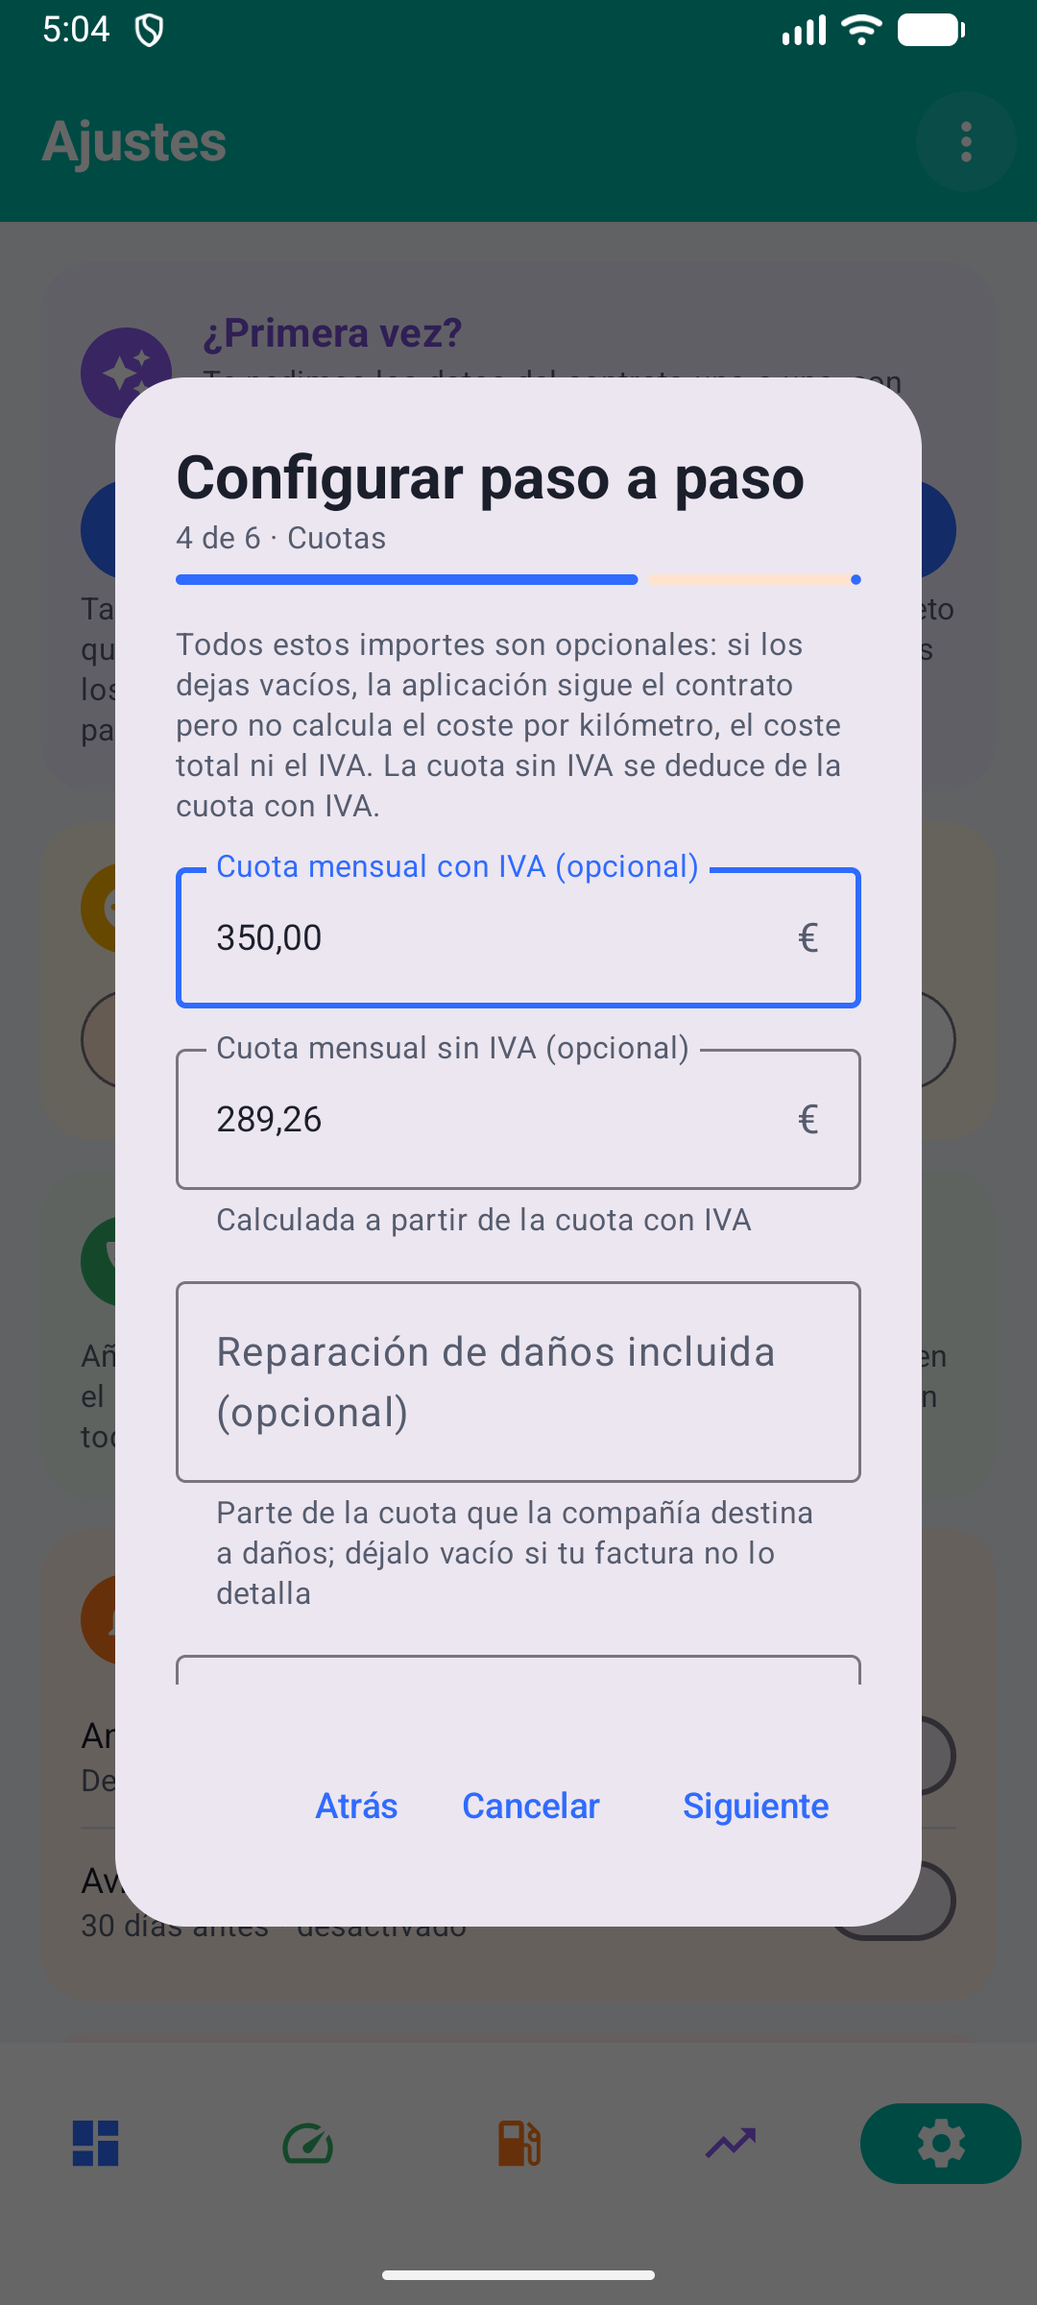
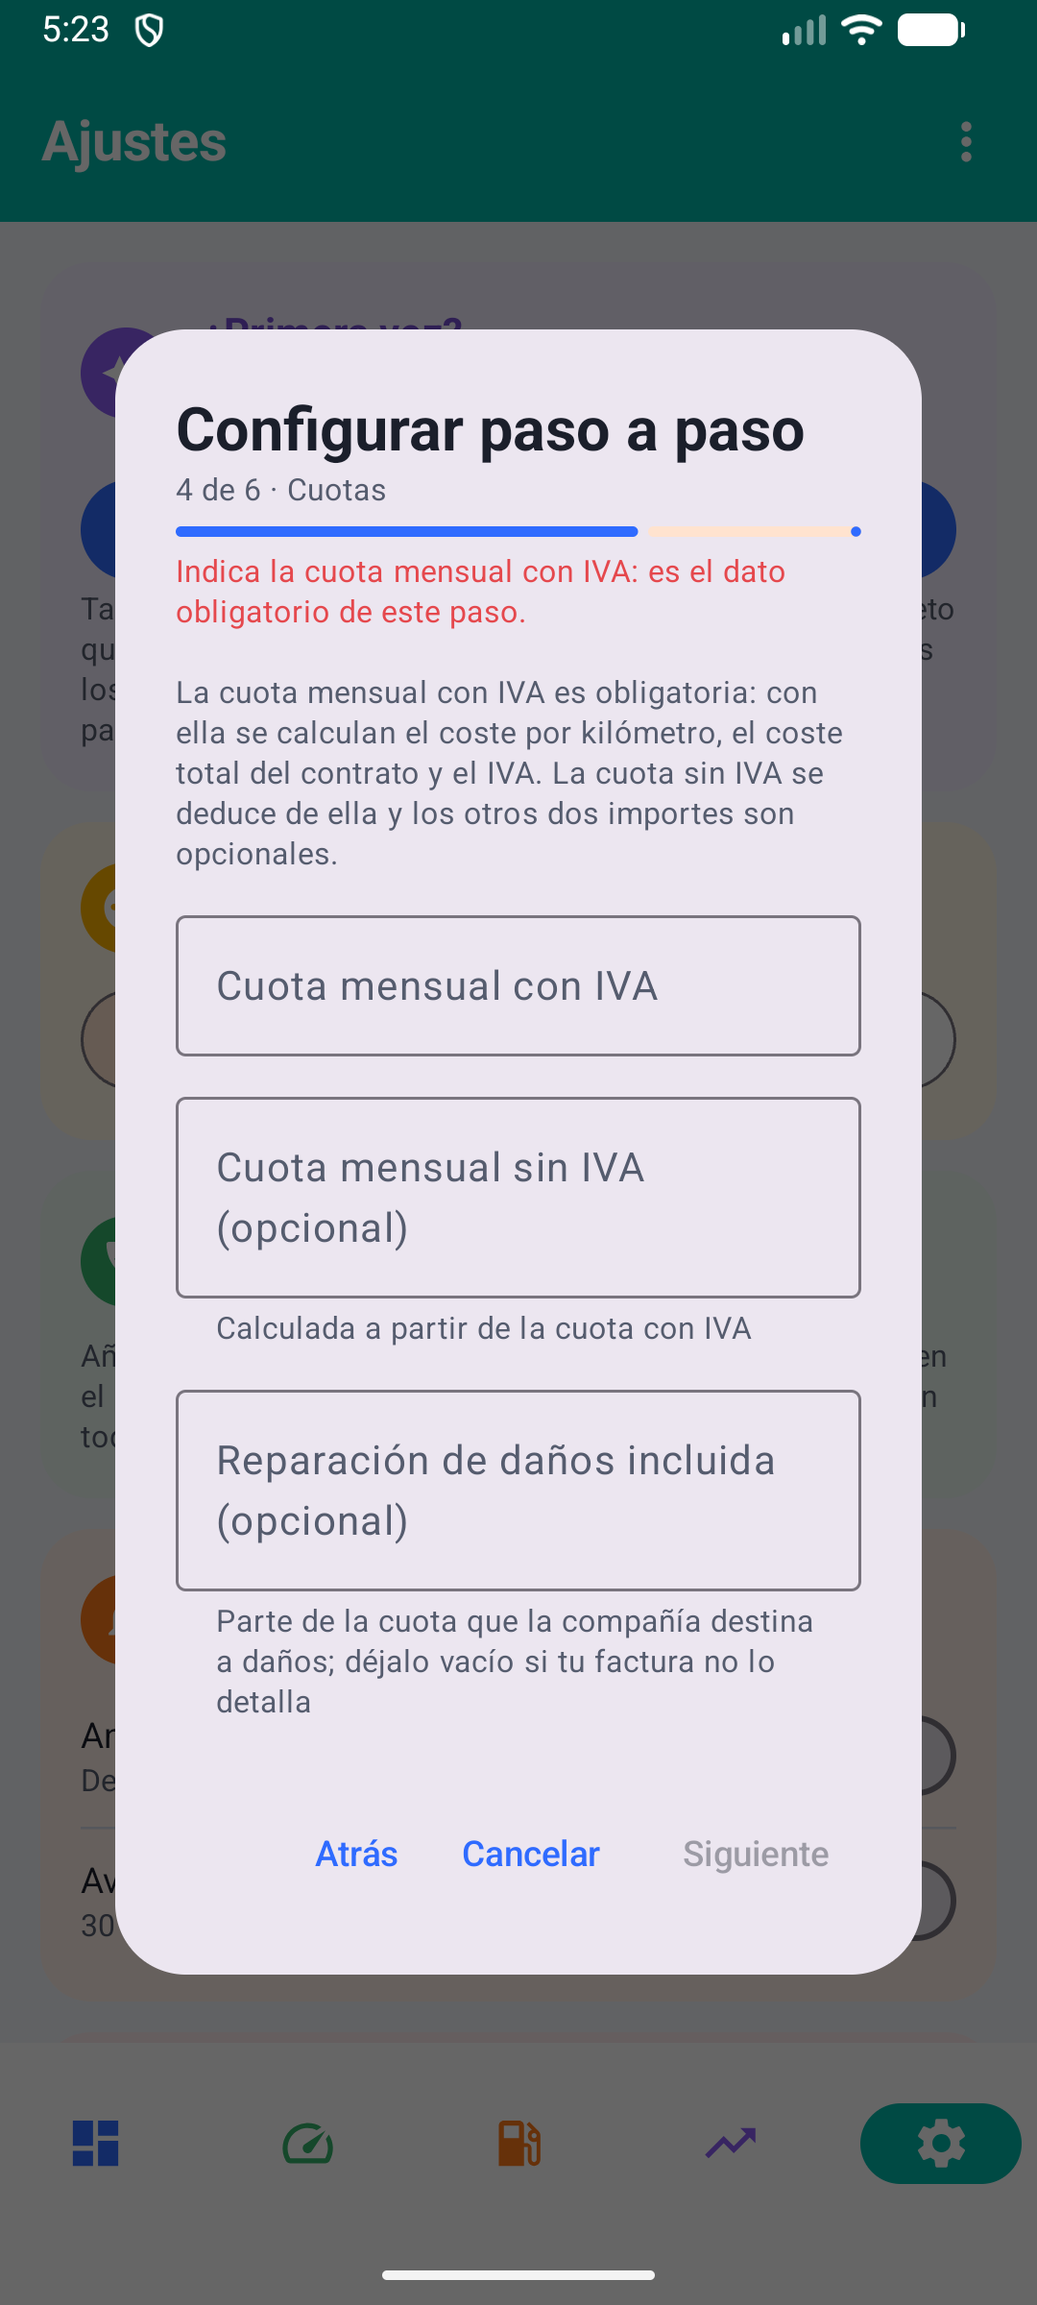
La cuota mensual con IVA vuelve a ser obligatoria (v1.3.1)
- Obligatorios: inicio, plazo (o fecha de fin), km/año y cuota con IVA. Siguen siendo
  opcionales la cuota sin IVA (se deduce), reparación de daños, depósito y las tarifas
  por kilómetro.
- El aviso de lo que falta en el asistente pasa a la cabecera fija del diálogo: antes
  quedaba fuera de la zona visible y no se veía por qué 'Siguiente' estaba deshabilitado.
- El formulario de Ajustes dice qué campo obligatorio falta en lugar del aviso genérico.
- Manual y web actualizados. Tests: 34 unitarios + 8 instrumentados.

diff --git a/app/src/main/java/com/manursan/seguimientokm/ui/AsistenteContrato.kt b/app/src/main/java/com/manursan/seguimientokm/ui/AsistenteContrato.kt
@@ -101,8 +101,8 @@ fun AsistenteContratoDialog(
             inicio = inicio, fin = fin,
             meses = mesesInt!!.also { require(it > 0) },
             kmAnio = Fmt.parseInt(kmAnio)!!.also { require(it > 0) },
-            cuotaMensual = d(cuota) ?: 0.0,
-            cuotaSinIva = d(cuotaSinIva) ?: ((d(cuota) ?: 0.0) / (1 + (ivaFrac ?: 0.0))),
+            cuotaMensual = d(cuota)!!.also { require(it > 0) },
+            cuotaSinIva = d(cuotaSinIva) ?: (d(cuota)!! / (1 + (ivaFrac ?: 0.0))),
             repDanos = d(repDanos) ?: 0.0,
             deposito = d(deposito) ?: 0.0,
             eurKmNoRecorrido = d(eurNoRec) ?: 0.0,
@@ -134,7 +134,7 @@ fun AsistenteContratoDialog(
         3 -> {
             val sinIva = d(cuotaSinIva) ?: d(cuota)?.div(1 + (ivaFrac ?: 0.0))
             when {
-                cuota.isNotBlank() && d(cuota) == null -> "La cuota mensual no es un número válido."
+                d(cuota).let { it == null || it <= 0 } -> "Indica la cuota mensual con IVA: es el dato obligatorio de este paso."
                 d(cuotaSinIva) != null && d(cuotaSinIva)!! > d(cuota)!! -> "La cuota sin IVA no puede superar la cuota con IVA."
                 ivaFrac != null && d(cuotaSinIva) != null && d(cuotaSinIva)!! > 0 && kotlin.math.abs(d(cuotaSinIva)!! * (1 + ivaFrac) - d(cuota)!!) > 1.0 ->
                     "Cuota sin IVA × (1 + IVA) = ${Fmt.dec(d(cuotaSinIva)!! * (1 + ivaFrac), 2)} €, no cuadra con la cuota con IVA."
@@ -172,6 +172,10 @@ fun AsistenteContratoDialog(
                 Text("${paso + 1} de ${titulos.size} · ${titulos[paso]}", style = MaterialTheme.typography.bodySmall, color = MaterialTheme.colorScheme.onSurfaceVariant)
                 Spacer(Modifier.height(6.dp))
                 LinearProgressIndicator(progress = { (paso + 1f) / titulos.size }, modifier = Modifier.fillMaxWidth())
+                if (pendiente != null) {
+                    Spacer(Modifier.height(6.dp))
+                    Text(pendiente, style = MaterialTheme.typography.bodySmall, color = MaterialTheme.colorScheme.error)
+                }
             }
         },
         text = {
@@ -204,8 +208,8 @@ fun AsistenteContratoDialog(
                         if (total != null) Resumen("Kilómetros contratados: ${Fmt.km(total)}")
                     }
                     3 -> {
-                        Ayuda("Todos estos importes son opcionales: si los dejas vacíos, la aplicación sigue el contrato pero no calcula el coste por kilómetro, el coste total ni el IVA. La cuota sin IVA se deduce de la cuota con IVA.")
-                        NumberField("Cuota mensual con IVA (opcional)", cuota, {
+                        Ayuda("La cuota mensual con IVA es obligatoria: con ella se calculan el coste por kilómetro, el coste total del contrato y el IVA. La cuota sin IVA se deduce de ella y los otros dos importes son opcionales.")
+                        NumberField("Cuota mensual con IVA", cuota, {
                             cuota = it
                             val c = d(it); val v = ivaFrac
                             if (c != null && v != null && v >= 0) cuotaSinIva = Fmt.dec(c / (1 + v), 2)
@@ -267,15 +271,11 @@ fun AsistenteContratoDialog(
                         Recomendacion()
                         if (pendiente == null && candidato != null) {
                             Resumen(
-                                "Todo listo: ${Fmt.km(candidato.kmContratados)} en ${candidato.meses} meses" +
-                                    (if (candidato.tieneCostes) ", cuota ${Fmt.eur(candidato.cuotaMensual)}/mes" else ", sin cuota (no se calcularán costes)") +
-                                    ". Pulsa Guardar para crear el contrato.",
+                                "Todo listo: ${Fmt.km(candidato.kmContratados)} en ${candidato.meses} meses, " +
+                                    "cuota ${Fmt.eur(candidato.cuotaMensual)}/mes. Pulsa Guardar para crear el contrato.",
                             )
                         }
                     }
-                }
-                if (pendiente != null) {
-                    Text(pendiente, style = MaterialTheme.typography.bodySmall, color = MaterialTheme.colorScheme.error)
                 }
             }
         },

diff --git a/docs/index.html b/docs/index.html
@@ -137,7 +137,7 @@
   <div class="nota" style="margin-top:16px">Si Play Protect muestra un aviso, elige <em>Instalar de todos modos</em>. La app no requiere cuenta ni contiene anuncios.</div>
   <div class="nota" style="margin-top:12px">Seguimiento Renting es una aplicación independiente de uso privado y <strong>no representa a ninguna entidad pública</strong> (como el BOE o la DGT). Solo usa Internet para consultar datos públicos abiertos de combustible (<a href="https://sedeaplicaciones.minetur.gob.es/ServiciosRESTCarburantes/PreciosCarburantes/help" target="_blank" rel="noopener">servicio oficial de precios de carburantes</a>) y notificaciones públicas en el <a href="https://www.boe.es/notificaciones/" target="_blank" rel="noopener">Tablón Edictal Único del BOE</a>.</div>
   <div class="req">
-    <span>Android 8.0+</span><span>Versión 1.3.0</span><span>Sin anuncios</span><span>Datos solo en tu dispositivo</span>
+    <span>Android 8.0+</span><span>Versión 1.3.1</span><span>Sin anuncios</span><span>Datos solo en tu dispositivo</span>
   </div>
 </section>
 
@@ -147,7 +147,7 @@
   <div class="dl">
     <div class="card">
       <h3><i style="background:var(--amarillo);color:#1F2937">📱</i>Aplicación Android</h3>
-      <p>Fichero de instalación <code>SeguimientoRenting.apk</code> · versión 1.3.0 · 22 MB</p>
+      <p>Fichero de instalación <code>SeguimientoRenting.apk</code> · versión 1.3.1 · 22 MB</p>
       <a class="btn apk" href="https://github.com/manursan2026/seguimiento-renting/releases/latest/download/SeguimientoRenting.apk" download>Descargar APK</a>
     </div>
     <div class="card">
@@ -162,7 +162,7 @@
 </main>
 
 <footer>
-  <div class="wrap">Seguimiento Renting · versión 1.3.0 · Página actualizada el 24/09/2026.<br>Las capturas mostradas utilizan datos ficticios de ejemplo.<br>Esta aplicación no representa a ninguna entidad pública. Fuentes oficiales: <a href="https://www.boe.es/notificaciones/" target="_blank" rel="noopener">BOE (TEU)</a> · <a href="https://sede.dgt.gob.es/es/multas/" target="_blank" rel="noopener">Sede DGT</a> · <a href="https://sedeaplicaciones.minetur.gob.es/ServiciosRESTCarburantes/PreciosCarburantes/help" target="_blank" rel="noopener">Precios de carburantes (Ministerio)</a><br>Código fuente en <a href="https://github.com/manursan2026/seguimiento-renting">GitHub</a> · <a href="https://github.com/manursan2026/seguimiento-renting/releases">Todas las versiones</a> · <a href="politica-de-privacidad.html">Política de Privacidad</a></div>
+  <div class="wrap">Seguimiento Renting · versión 1.3.1 · Página actualizada el 24/09/2026.<br>Las capturas mostradas utilizan datos ficticios de ejemplo.<br>Esta aplicación no representa a ninguna entidad pública. Fuentes oficiales: <a href="https://www.boe.es/notificaciones/" target="_blank" rel="noopener">BOE (TEU)</a> · <a href="https://sede.dgt.gob.es/es/multas/" target="_blank" rel="noopener">Sede DGT</a> · <a href="https://sedeaplicaciones.minetur.gob.es/ServiciosRESTCarburantes/PreciosCarburantes/help" target="_blank" rel="noopener">Precios de carburantes (Ministerio)</a><br>Código fuente en <a href="https://github.com/manursan2026/seguimiento-renting">GitHub</a> · <a href="https://github.com/manursan2026/seguimiento-renting/releases">Todas las versiones</a> · <a href="politica-de-privacidad.html">Política de Privacidad</a></div>
 </footer>
 
 </body>

diff --git a/app/src/main/java/com/manursan/seguimientokm/ui/ParametrosScreen.kt b/app/src/main/java/com/manursan/seguimientokm/ui/ParametrosScreen.kt
@@ -136,9 +136,9 @@ fun ParametrosScreen(vm: MainViewModel, padding: PaddingValues, onMessage: (Stri
             fin = fin,
             meses = Fmt.parseInt(meses)!!.also { require(it > 0) },
             kmAnio = Fmt.parseInt(kmAnio)!!.also { require(it > 0) },
-            // Opcionales: sin cuota no hay costes y sin tarifas no hay liquidación estimada
-            cuotaMensual = d(cuota) ?: 0.0,
-            cuotaSinIva = d(cuotaSinIva) ?: ((d(cuota) ?: 0.0) / (1 + (d(iva)?.div(100) ?: 0.0))),
+            cuotaMensual = d(cuota)!!.also { require(it > 0) },
+            // Opcionales: sin tarifas no hay liquidación estimada; sin los demás, sus cálculos quedan a cero
+            cuotaSinIva = d(cuotaSinIva) ?: (d(cuota)!! / (1 + (d(iva)?.div(100) ?: 0.0))),
             repDanos = d(repDanos) ?: 0.0,
             deposito = d(deposito) ?: 0.0,
             eurKmNoRecorrido = d(eurNoRec) ?: 0.0,
@@ -154,7 +154,13 @@ fun ParametrosScreen(vm: MainViewModel, padding: PaddingValues, onMessage: (Stri
             pctDeduccion = d(deduccion)!! / 100,
         )
     }.getOrNull()
-    val errores = candidato?.errores() ?: listOf("Hay campos vacíos o con valores no numéricos.")
+    // Si ni siquiera se puede construir el contrato, se dice qué campo obligatorio falta
+    val errores = candidato?.errores() ?: buildList {
+        if (Fmt.parseInt(meses).let { it == null || it <= 0 }) add("El plazo en meses es obligatorio.")
+        if (Fmt.parseInt(kmAnio).let { it == null || it <= 0 }) add("Los kilómetros al año son obligatorios.")
+        if (d(cuota).let { it == null || it <= 0 }) add("La cuota mensual con IVA es obligatoria.")
+        if (isEmpty()) add("Hay campos vacíos o con valores no numéricos.")
+    }
     val nuevo = candidato?.takeIf { errores.isEmpty() }
     val cambiado = nuevo != null && nuevo != p
 
@@ -499,7 +505,7 @@ fun ParametrosScreen(vm: MainViewModel, padding: PaddingValues, onMessage: (Stri
         SectionCard(title = "Cuotas", icon = Icons.Default.Paid, accent = Palette.pink) {
             Column(verticalArrangement = Arrangement.spacedBy(8.dp)) {
                 Row(horizontalArrangement = Arrangement.spacedBy(8.dp)) {
-                    NumberField("Cuota IVA incl. (opc.)", cuota, { cuota = it }, Modifier.weight(1f), suffix = "€", isError = cuota.isNotBlank() && d(cuota) == null)
+                    NumberField("Cuota IVA incl.", cuota, { cuota = it }, Modifier.weight(1f), suffix = "€", isError = d(cuota) == null || d(cuota)!! <= 0)
                     NumberField("Cuota sin IVA (opc.)", cuotaSinIva, { cuotaSinIva = it }, Modifier.weight(1f), suffix = "€", isError = cuotaSinIva.isNotBlank() && d(cuotaSinIva) == null)
                 }
                 Row(horizontalArrangement = Arrangement.spacedBy(8.dp)) {

diff --git a/app/src/test/java/com/manursan/seguimientokm/CalcTest.kt b/app/src/test/java/com/manursan/seguimientokm/CalcTest.kt
@@ -362,20 +362,27 @@ class TicketOcrTest {
 
 class ContratoMinimoTest {
     /** Solo fechas, plazo y km/año: la app calcula el seguimiento y no da errores por falta de cuota o tarifas. */
+    /** Lo imprescindible: fechas, plazo, km/año y cuota con IVA. */
     private fun minimo() = ContractParams.vacio(LocalDate.of(2026, 1, 1)).copy(
         inicio = LocalDate.of(2026, 1, 1), fin = LocalDate.of(2029, 1, 1), meses = 36, kmAnio = 15000,
+        cuotaMensual = 350.0, cuotaSinIva = 350.0 / 1.21,
     )
 
-    @Test fun contratoSinCuotaNiTarifasEsValido() {
+    @Test fun contratoSinTarifasEsValido() {
         val p = minimo()
         assertEquals(emptyList<String>(), p.errores())
         assert(p.configurado)
-        assert(!p.tieneCostes)
+        assert(p.tieneCostes)
         assert(!p.tieneTarifas)
         assertEquals(45000.0, p.kmContratados, 1e-9)
     }
 
-    @Test fun calculaKilometrosSinCostes() {
+    @Test fun laCuotaConIvaEsObligatoria() {
+        val sinCuota = minimo().copy(cuotaMensual = 0.0, cuotaSinIva = 0.0)
+        assert(sinCuota.errores().any { it.contains("cuota mensual con IVA es obligatoria") })
+    }
+
+    @Test fun calculaKilometrosSinTarifas() {
         val data = AppData(
             params = minimo(),
             measurements = listOf(
@@ -385,8 +392,8 @@ class ContratoMinimoTest {
         )
         val r = Calc.compute(data, LocalDate.of(2026, 7, 1))
         assertEquals(6500.0, r.seguimiento.kmUltima, 1e-9)
-        assertEquals(0.0, r.coste.cuotas, 1e-9)          // sin cuota no hay coste de renting
         assertEquals(0.0, r.liquidacion.abonoCargo, 1e-9) // sin tarifas no hay abono ni cargo
+        assert(r.coste.cuotas > 0)                        // con cuota sí hay coste de renting
         assert(r.proyeccion.isNotEmpty())                 // la proyección sí se calcula
     }
 

diff --git a/app/src/main/java/com/manursan/seguimientokm/Models.kt b/app/src/main/java/com/manursan/seguimientokm/Models.kt
@@ -66,8 +66,7 @@ data class ContractParams(
         }
         if (meses <= 0) e += "El plazo debe ser mayor que 0."
         if (kmAnio <= 0) e += "Los km/año deben ser mayores que 0."
-        // La cuota es opcional: sin ella no hay costes, pero sí seguimiento de kilómetros
-        if (cuotaMensual < 0) e += "La cuota mensual no puede ser negativa."
+        if (cuotaMensual <= 0) e += "La cuota mensual con IVA es obligatoria."
         if (cuotaSinIva > cuotaMensual) e += "La cuota sin IVA no puede superar la cuota con IVA."
         if (cuotaMensual > 0 && cuotaSinIva > 0 && kotlin.math.abs(cuotaSinIva * (1 + tipoIva) - cuotaMensual) > 1.0)
             e += "Cuota sin IVA × (1 + IVA) = ${"%.2f".format(cuotaSinIva * (1 + tipoIva))} €, no coincide con la cuota con IVA (${"%.2f".format(cuotaMensual)} €)."

diff --git a/docs_manual.py b/docs_manual.py
@@ -196,14 +196,14 @@ story += [P("Mientras no haya contrato, la pestaña Ajustes empieza con la tarje
                  ["1. Vehículo", "Nº de contrato, vehículo y matrícula. Todo opcional."],
                  ["2. Compañía de renting", "Nombre, teléfonos y correo para contactar con un toque. Opcional."],
                  ["3. Plazo y kilómetros", "Fecha de inicio, plazo en meses (la fecha de fin se calcula sola) y km al año."],
-                 ["4. Cuotas", "Cuota mensual con IVA, cuota sin IVA (se calcula sola), reparación de daños y depósito. Todo opcional."],
+                 ["4. Cuotas", "Cuota mensual con IVA (obligatoria); la cuota sin IVA se calcula sola y la reparación de daños y el depósito son opcionales."],
                  ["5. Liquidación", "Abono por km no recorrido, cargo por km de exceso, umbrales y recargo. Opcional."],
                  ["6. Combustible e IVA", "Combustible del vehículo, provincia, tipo de IVA y porcentaje de deducción."]],
                 [4.2*cm, 12.2*cm]),
-          P("<b>Qué es obligatorio y qué no.</b> Solo hacen falta tres datos: la <b>fecha de inicio</b>, el <b>plazo</b> (o la fecha de fin) y los <b>kilómetros al año</b>; sin ellos no hay "
-            "contrato que seguir. El resto es opcional, con la consecuencia de que lo que dependa de un dato ausente no se calcula:"),
-          bullets(["Sin <b>cuota mensual</b> no hay coste por kilómetro, coste total del contrato ni IVA; el seguimiento de kilómetros funciona igual.",
-                   "Sin <b>tarifas por kilómetro</b> (abono y exceso) no se estiman el abono ni el cargo de la liquidación.",
+          P("<b>Qué es obligatorio y qué no.</b> Solo hacen falta cuatro datos: la <b>fecha de inicio</b>, el <b>plazo</b> (o la fecha de fin), los <b>kilómetros al año</b> y la "
+            "<b>cuota mensual con IVA</b>. El resto es opcional, con la consecuencia de que lo que dependa de un dato ausente no se calcula:"),
+          bullets(["Sin <b>tarifas por kilómetro</b> (abono y exceso) no se estiman el abono ni el cargo de la liquidación.",
+                   "La <b>cuota sin IVA</b> se deduce de la cuota con IVA; la reparación de daños y el depósito pueden dejarse vacíos.",
                    "Sin <b>vehículo</b> se guarda el nombre «Coche de Renting»; sin datos de la compañía no hay botones de llamada ni de correo.",
                    "El combustible es <b>Gasolina 95 E5</b> salvo que elijas otro, y la provincia, toda España."]),
           note("Aun así se recomienda rellenar todos los datos del contrato: es lo que permite aprovechar la aplicación entera. Los que falten pueden añadirse en cualquier momento "
@@ -367,7 +367,7 @@ story += [P("<b>Combustible</b> de tu vehículo (gasolinas 95 y 98 en todas sus 
           figrow([("45_ajustes_mercado", "Combustible y provincia para el precio de mercado")], w=7*cm)]
 story += H2("9.6 Contrato, cuotas, liquidación e IVA")
 story += [P("Aquí se introducen los parámetros que alimentan todos los cálculos. Se guardan al pulsar <b>Guardar</b>; <b>Descartar cambios</b> vuelve a los valores guardados. "
-            "Solo son obligatorios el <b>inicio</b>, el <b>plazo</b> (o la fecha de fin) y los <b>km/año</b>; los campos marcados como <i>opc.</i> pueden dejarse vacíos, "
+            "Solo son obligatorios el <b>inicio</b>, el <b>plazo</b> (o la fecha de fin), los <b>km/año</b> y la <b>cuota con IVA</b>; los campos marcados como <i>opc.</i> pueden dejarse vacíos, "
             "y en ese caso la aplicación indica en cada tarjeta qué cálculo no puede hacer (véase 2.3)."),
           table([["Bloque", "Campos"],
                  ["Contrato", "Nº de contrato, vehículo, matrícula, compañía de renting con sus teléfonos y correo, inicio (puesta a disposición), fin, plazo en meses y km/año. Debajo se muestran los km contratados resultantes."],

diff --git a/README.md b/README.md
@@ -23,7 +23,7 @@ El APK está firmado con la clave de depuración: sirve para uso personal, pero 
 - **Otros gastos** (peajes, parking, lavado, multas, mantenimiento, AdBlue): entran en el coste por km y en el coste de uso hasta hoy.
 - **Foto del cuentakilómetros** en cada medición (cámara o galería), reducida a 1600 px.
 - **Foto del tique de repostaje** con lectura automática (OCR de ML Kit en el dispositivo, sin enviar la imagen): rellena fecha, importe, precio/litro y litros para revisarlos antes de guardar.
-- **Configurar paso a paso**: asistente de seis pasos para dar de alta el contrato en el primer arranque (o tras borrar los datos); la app se abre en Ajustes mientras no haya contrato.
+- **Configurar paso a paso**: asistente de seis pasos para dar de alta el contrato en el primer arranque (o tras borrar los datos); la app se abre en Ajustes mientras no haya contrato. Obligatorios: inicio, plazo, km/año y cuota con IVA.
 - **Recordatorios**: notificación mensual para anotar los km y aviso 30 días antes del ajuste anual.
 - **Próximo ajuste anual**: fecha, km previstos, desviación y si cae dentro de la banda ±10 %.
 - **Widget** de pantalla de inicio con km actuales, desviación y margen diario.
